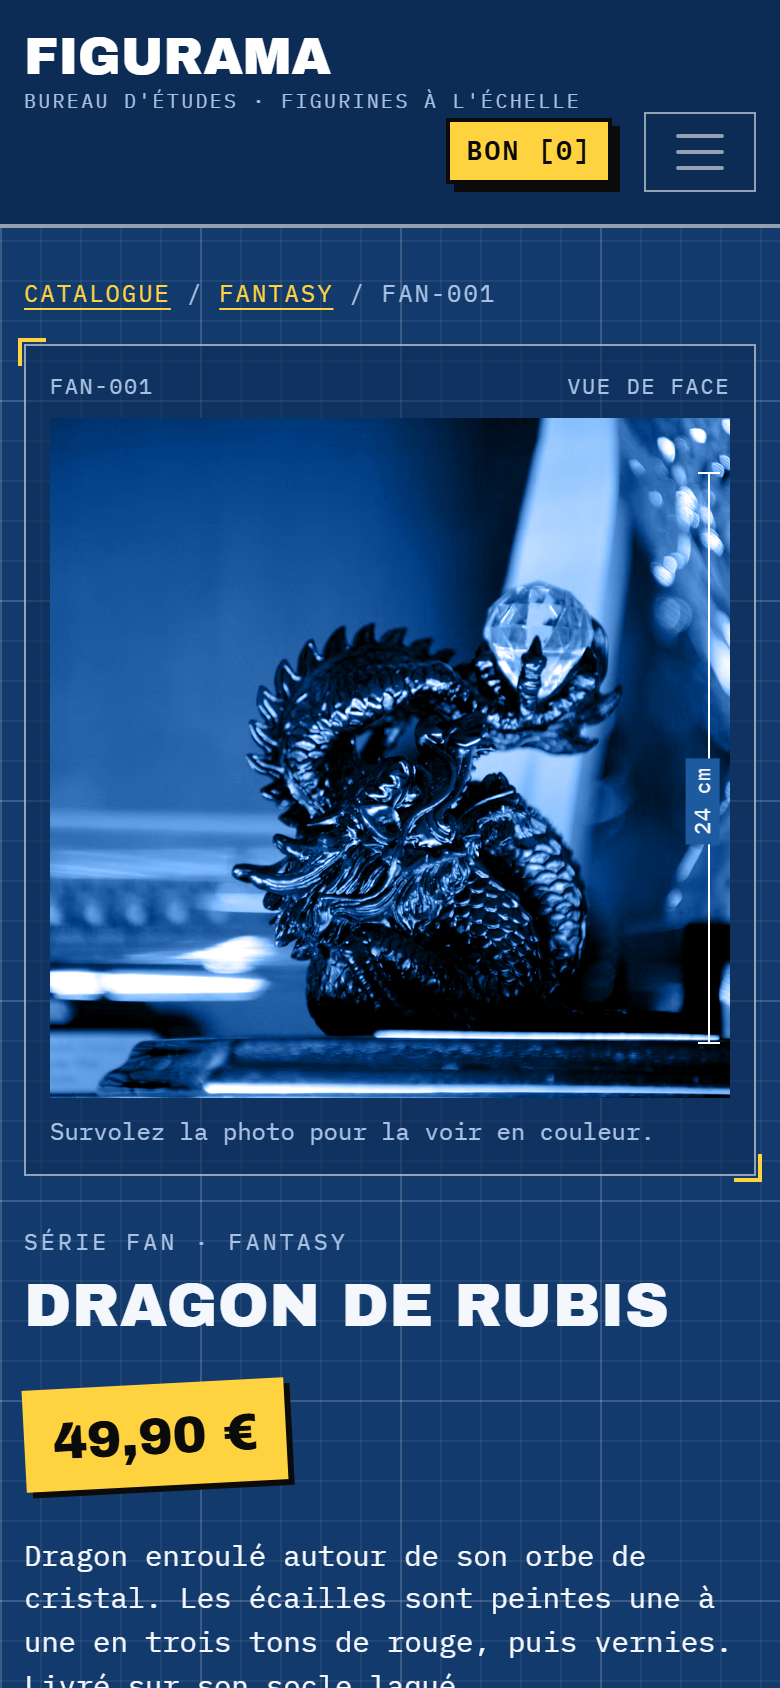
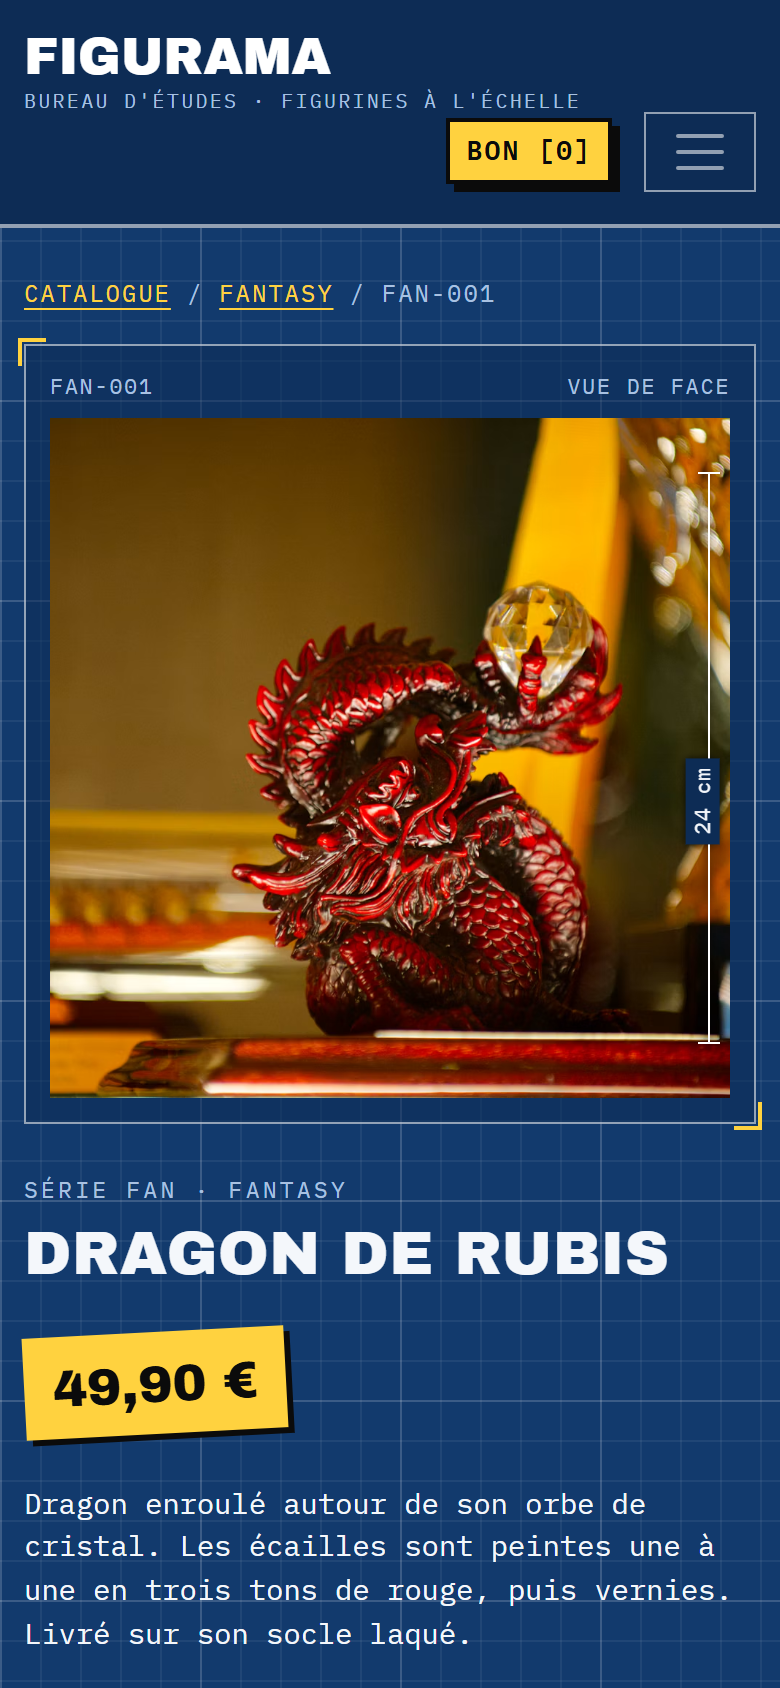
Show photos in colour and load the catalogue while scrolling

diff --git a/assets/styles/app.css b/assets/styles/app.css
@@ -138,17 +138,18 @@ a { text-underline-offset: 3px; }
 .row > :nth-child(3n) .plate .sticker { transform: rotate(7deg); }
 .plate .plate-low { top: auto; right: auto; left: .4rem; bottom: 4.6rem; font-size: .7rem; padding: .2rem .45rem; transform: rotate(-4deg); }
 
-/* Photos printed as cyanotypes, in full colour on hover */
-.figure-photo { position: relative; background: #1d5aa0; overflow: hidden; aspect-ratio: 1; }
-.figure-photo img { width: 100%; height: 100%; object-fit: cover; filter: grayscale(1) contrast(1.15) brightness(1.05); mix-blend-mode: luminosity; transition: filter .3s, mix-blend-mode .3s; }
-.plate:hover .figure-photo img, .figure-photo:hover img { filter: none; mix-blend-mode: normal; }
+/* Photo in a frame, slightly zoomed on hover */
+.figure-photo { position: relative; background: var(--paper-dark); overflow: hidden; aspect-ratio: 1; }
+.figure-photo img { width: 100%; height: 100%; object-fit: cover; transition: transform .3s; }
+.plate:hover .figure-photo img { transform: scale(1.04); }
 
 /* Dimension line on the right of the photo: |<— 24 cm —>| */
 .dim-v { position: absolute; top: 8%; bottom: 8%; right: 10px; width: 0; border-left: 1px solid #fff; z-index: 2; }
 .dim-v::before, .dim-v::after { content: ''; position: absolute; left: -6px; width: 11px; border-top: 1px solid #fff; }
 .dim-v::before { top: 0; }
 .dim-v::after { bottom: 0; }
-.dim-v span { position: absolute; top: 50%; right: 4px; transform: translateY(-50%) rotate(-90deg); transform-origin: right center; white-space: nowrap; font-size: .7rem; background: #1d5aa0; padding: 0 .3rem; }
+.dim-v { filter: drop-shadow(0 0 2px rgba(0, 0, 0, .8)); }
+.dim-v span { position: absolute; top: 50%; right: 4px; transform: translateY(-50%) rotate(-90deg); transform-origin: right center; white-space: nowrap; font-size: .7rem; background: var(--paper-dark); padding: 0 .3rem; }
 
 /* ---------- Title block (cartouche) ---------- */
 .cartouche { border: 2px solid var(--line); background: rgba(13, 44, 85, .7); font-size: .78rem; }
@@ -209,6 +210,7 @@ a { text-underline-offset: 3px; }
 .counter .label { font-size: .7rem; text-transform: uppercase; letter-spacing: .1em; color: var(--muted); }
 .breadcrumb { --bs-breadcrumb-divider: '/'; font-size: .75rem; text-transform: uppercase; letter-spacing: .08em; }
 .pagination { --bs-pagination-bg: transparent; --bs-pagination-color: var(--ink); --bs-pagination-border-color: var(--line); --bs-pagination-active-bg: var(--yellow); --bs-pagination-active-color: var(--black); --bs-pagination-active-border-color: var(--black); --bs-pagination-hover-bg: rgba(255,255,255,.1); --bs-pagination-hover-color: #fff; }
+.load-more { display: block; width: fit-content; margin: 2.5rem auto 0; }
 .footer { border-top: 2px solid var(--line); background: var(--paper-dark); font-size: .72rem; letter-spacing: .06em; color: var(--muted); }
 .nav-pills { --bs-nav-pills-link-active-bg: var(--yellow); --bs-nav-pills-link-active-color: var(--black); --bs-nav-link-color: var(--ink); --bs-nav-link-hover-color: var(--yellow); }
 .nav-pills .nav-link { text-transform: uppercase; font-size: .78rem; letter-spacing: .08em; border: 1px solid var(--line); margin-right: .4rem; }

diff --git a/assets/app.js b/assets/app.js
@@ -1,1 +1,49 @@
 import './styles/app.css';
+
+/*
+ * Infinite scroll for the catalogue. The "load more" link works on its own
+ * (it opens the next page); here, the next page is fetched as soon as the link
+ * comes near the screen and its cards are added to the grid.
+ */
+const observer = new IntersectionObserver((entries) => {
+    for (const entry of entries) {
+        if (entry.isIntersecting) {
+            loadMore(entry.target);
+        }
+    }
+}, { rootMargin: '400px' });
+
+async function loadMore(link) {
+    observer.unobserve(link);
+    link.textContent = 'Chargement…';
+
+    try {
+        const response = await fetch(link.href, { headers: { 'X-Requested-With': 'fetch' } });
+        if (!response.ok) {
+            throw new Error(response.statusText);
+        }
+        const page = new DOMParser().parseFromString(await response.text(), 'text/html');
+        document.querySelector(link.dataset.target).append(...page.querySelector('[data-items]').children);
+
+        const next = page.querySelector('[data-load-more]');
+        if (next) {
+            link.replaceWith(next);
+            watch(next);
+        } else {
+            link.remove();
+        }
+    } catch {
+        // Leave a working link: a click opens the next page normally.
+        link.textContent = 'Charger la suite';
+    }
+}
+
+function watch(link) {
+    link.addEventListener('click', (event) => {
+        event.preventDefault();
+        loadMore(link);
+    });
+    observer.observe(link);
+}
+
+document.querySelectorAll('[data-load-more]').forEach(watch);

diff --git a/tests/ShopTest.php b/tests/ShopTest.php
@@ -46,10 +46,19 @@ final class ShopTest extends AppWebTestCase
         $this->assertNotContains('Robot à remontoir', $this->names($inStock));
     }
 
-    public function testPaginatesTheCatalogue(): void
+    public function testLoadsTheCatalogueByChunksWhileScrolling(): void
     {
-        $this->assertCount(12, $this->client->request('GET', '/boutique')->filter('.plate'));
-        $this->assertCount(3, $this->client->request('GET', '/boutique?page=2')->filter('.plate'));
+        $crawler = $this->client->request('GET', '/boutique?categorie=&tri=prix-croissant');
+        $this->assertCount(12, $crawler->filter('#catalogue .plate'));
+        $next = $crawler->filter('[data-load-more]')->attr('href');
+        $this->assertStringContainsString('page=2', $next);
+        $this->assertStringContainsString('tri=prix-croissant', $next, 'the filters are kept');
+
+        // What assets/app.js asks for: only the next cards, and no link since it is the last page.
+        $more = $this->client->request('GET', $next, server: ['HTTP_X_REQUESTED_WITH' => 'fetch']);
+        $this->assertCount(3, $more->filter('[data-items] .plate'));
+        $this->assertCount(0, $more->filter('[data-load-more]'));
+        $this->assertCount(0, $more->filter('nav'), 'no layout around the cards');
     }
 
     public function testProductPageShowsTheTechnicalSheet(): void

diff --git a/src/Controller/ShopController.php b/src/Controller/ShopController.php
@@ -35,8 +35,17 @@ final class ShopController extends AbstractController
 
         $results = $products->search($category, $query, $sort, $inStock, $page, self::PER_PAGE);
         $pages = max(1, (int) ceil(count($results) / self::PER_PAGE));
+        $nextUrl = $page < $pages
+            ? $this->generateUrl('app_shop', ['page' => $page + 1] + $request->query->all())
+            : null;
+
+        // Infinite scroll: assets/app.js asks for the next page and only needs the new cards.
+        if ($request->headers->get('X-Requested-With') === 'fetch') {
+            return $this->render('shop/_page.html.twig', ['products' => $results, 'next_url' => $nextUrl]);
+        }
 
         return $this->render('shop/index.html.twig', [
+            'next_url' => $nextUrl,
             'products' => $results,
             'total' => count($results),
             'categories' => $categories->withProductCount(),

diff --git a/README.md b/README.md
@@ -14,12 +14,12 @@ Online shop for collectible figurines, built with **Symfony 7.4**: catalogue, ca
 
 Figurines are scale models, so the shop is designed like an **engineering drawing**: blue gridded paper, monospaced text, a reference code for every piece (`FAN-001`), dimension lines on the photos and a technical sheet with height, scale and material. On top of that, a touch of **convention fanzine**: prices are tilted stickers, out-of-stock items get a red rubber stamp, buttons have hard shadows.
 
-Photos are printed in blueprint blue and turn to full colour on hover. The cart is called a *bon de commande* (order form), the back office *l'atelier* (the workshop).
+The cart is called a *bon de commande* (order form), the back office *l'atelier* (the workshop).
 
 ## What you can do
 
 **As a customer**
-- Browse the catalogue by series, search, sort by price, hide out-of-stock pieces
+- Browse the catalogue by series, search, sort by price, hide out-of-stock pieces; more pieces load automatically while scrolling
 - Read a technical sheet for each piece and add it to the order form (never more than the stock)
 - Enter a shipping address and pay with **Stripe Checkout** (test cards), or with the built-in demo payment when no Stripe key is set
 - Follow your orders, pay later or cancel an unpaid order
@@ -36,6 +36,7 @@ Photos are printed in blueprint blue and turn to full colour on hover. The cart 
 - **Prices in cents**, copied into each order line: changing a price never changes a past order.
 - **Session cart** ([`Cart`](src/Cart/Cart.php)) that removes pieces no longer sold and lowers quantities when the stock goes down.
 - **Stripe without the SDK** ([`StripeClient`](src/Payment/StripeClient.php)): Checkout sessions created with Symfony HttpClient, payment checked again when the customer comes back, and a webhook whose **signature is verified** (HMAC-SHA256, 5-minute tolerance). Marking an order as paid is idempotent, because Stripe may send the same event twice.
+- **Infinite scroll without a library** ([`app.js`](assets/app.js)): an `IntersectionObserver` fetches the next page when the "load more" link gets close, and the controller returns only the new cards. Without JavaScript, the link simply opens the next page.
 - **Security**: login throttling, hashed passwords, CSRF tokens on every form that changes data, and a **voter** ([`OrderVoter`](src/Security/OrderVoter.php)) so customers only see their own orders.
 - **Front end**: Bootstrap provides the grid and base components, but the whole look comes from a single hand-written stylesheet ([`app.css`](assets/styles/app.css)) with IBM Plex Mono and Archivo Black.
 
